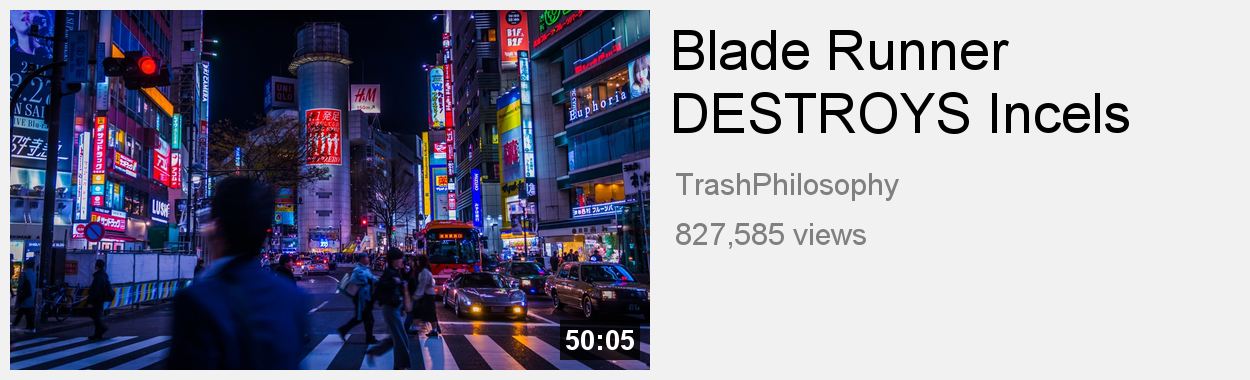
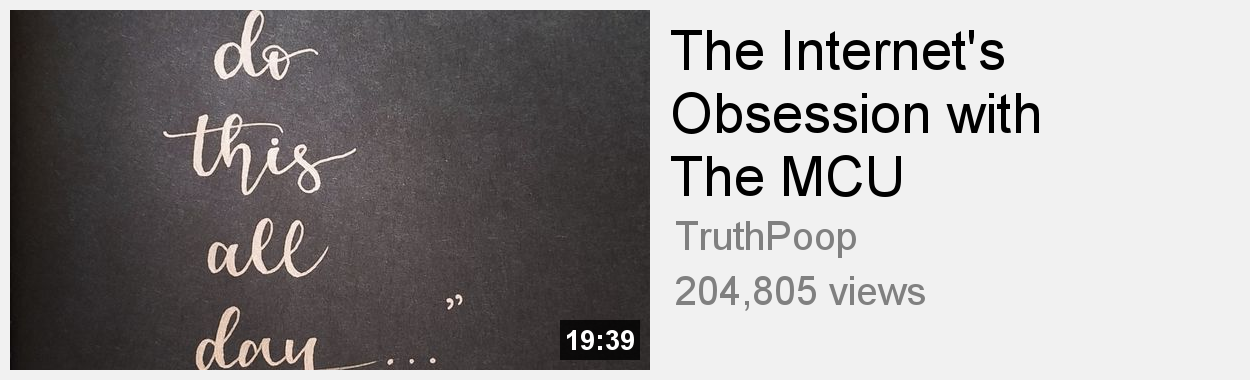
thumbnail dl/resize/img generation fix

diff --git a/bot.js b/bot.js
@@ -24,9 +24,9 @@ const unsplash = new Unsplash({
   secret: UNSPLASH_SECRET
 });
 
-const cron = require("node-cron");
+const cron = require('node-cron');
 
-global.fetch = require("node-fetch");
+global.fetch = require('node-fetch');
 
 /**
  * Generates random title
@@ -99,10 +99,19 @@ function genName() {
 }
 
 /**
- * Gets a thumbnail for the video from Unsplash
+ * Generates our image
  */
-async function genThumbnail(keywords) {
-    var pic;
+async function genImg() {
+    var titleObj = genTitle();
+    var title = wordWrap(titleObj.title, 18);
+    var keywords = titleObj.keywords;
+    var time = genTime();
+    var views = genViews();
+    var name = genName();
+
+    console.log(title);
+
+    var pic; // getting thumbnail
     for (var i = 0; i < keywords.length; i++) {
         let response = await unsplash.photos.getRandomPhoto({ query: keywords[i] })
         .then(res=>res.json())
@@ -114,7 +123,6 @@ async function genThumbnail(keywords) {
             break;
         }
     }
-
     if (pic == null) { // if keywords return no images, random photo
         pic = await unsplash.photos.getRandomPhoto({})
         .then(res=>res.json())
@@ -123,43 +131,16 @@ async function genThumbnail(keywords) {
         });
     }
 
-    return pic;
-}
-
-/**
- * Generates our image
- */
-async function genImg() {
-    var titleObj = genTitle();
-    var title = wordWrap(titleObj.title, 20);
-    var keywords = titleObj.keywords;
-    var time = genTime();
-    var views = genViews();
-    var name = genName();
-    var pic = await genThumbnail(keywords);
-
     var fs = require('fs'),
     request = require('request');
-    var download = function(uri, filename, callback) {
-        request.head(uri, function(err, res, body){
-            console.log('content-type:', res.headers['content-type']);
-            console.log('content-length:', res.headers['content-length']);
-            request(uri).pipe(fs.createWriteStream(filename)).on('close', callback);
-        });
-    };
+    const sharp = require('sharp');
 
-    download(pic.urls.regular, 'thumb.png', async function(){ // download our thumbnail, make img in callback, god what terrible js
-        console.log('thumbnail downloaded');
-        console.log(title);
-
-        const sharp = require('sharp'); // resizing thumbnail
-        await sharp('thumb.png').resize({ height: 360, width: 640 }).toFile('thumbResize.png')
-        .then(function(newFileInfo) {
-            console.log("thumbnail resized");
-        })
-        .catch(function(err) {
-            console.log(err);
-        });
+    await request(pic.urls.regular)
+    .pipe(fs.createWriteStream('thumb.jpg')) // downloading image
+    .on('close', async function() {
+        console.log('thumbnail downloaded')
+        await sharp('thumb.jpg').resize({ height: 360, width: 640 }).toFile('thumbResize.jpg'); // resizing
+        console.log('thumbnail resized');
 
         const { createCanvas, loadImage } = require('canvas');
         const canvas = createCanvas(1250, 380);
@@ -168,7 +149,7 @@ async function genImg() {
         ctx.fillStyle = '#F1F1F1';
         ctx.fillRect(0, 0, 1250, 380);
 
-        await loadImage('thumbResize.png').then((image) => {
+        await loadImage('thumbResize.jpg').then((image) => {
             ctx.drawImage(image, 10, 10);
         });
 
@@ -178,9 +159,9 @@ async function genImg() {
 
         var displacement = (countLines(title) * 55) + 85;
         ctx.fillStyle = 'grey';
-        ctx.font = '30px Arial';
+        ctx.font = '40px Arial';
         ctx.fillText(name, 675, displacement);
-        ctx.fillText(views, 675, displacement + 50)
+        ctx.fillText(views, 675, displacement + 55)
 
         ctx.fillStyle = 'black';
         ctx.globalAlpha = 0.8;
@@ -191,10 +172,10 @@ async function genImg() {
         ctx.fillText(time, 565, 350);
 
         var buf = canvas.toBuffer();
-        fs.writeFileSync("out.png", buf);
+        fs.writeFileSync('out.png', buf);
 
-        console.log("image generated");
-    });
+        console.log('image generated');
+    })
 }
 
 /**
@@ -272,4 +253,4 @@ const task = cron.schedule("0 */3 * * *", () => {
     postImg();
 });
 
-//task.start();
+task.start();
